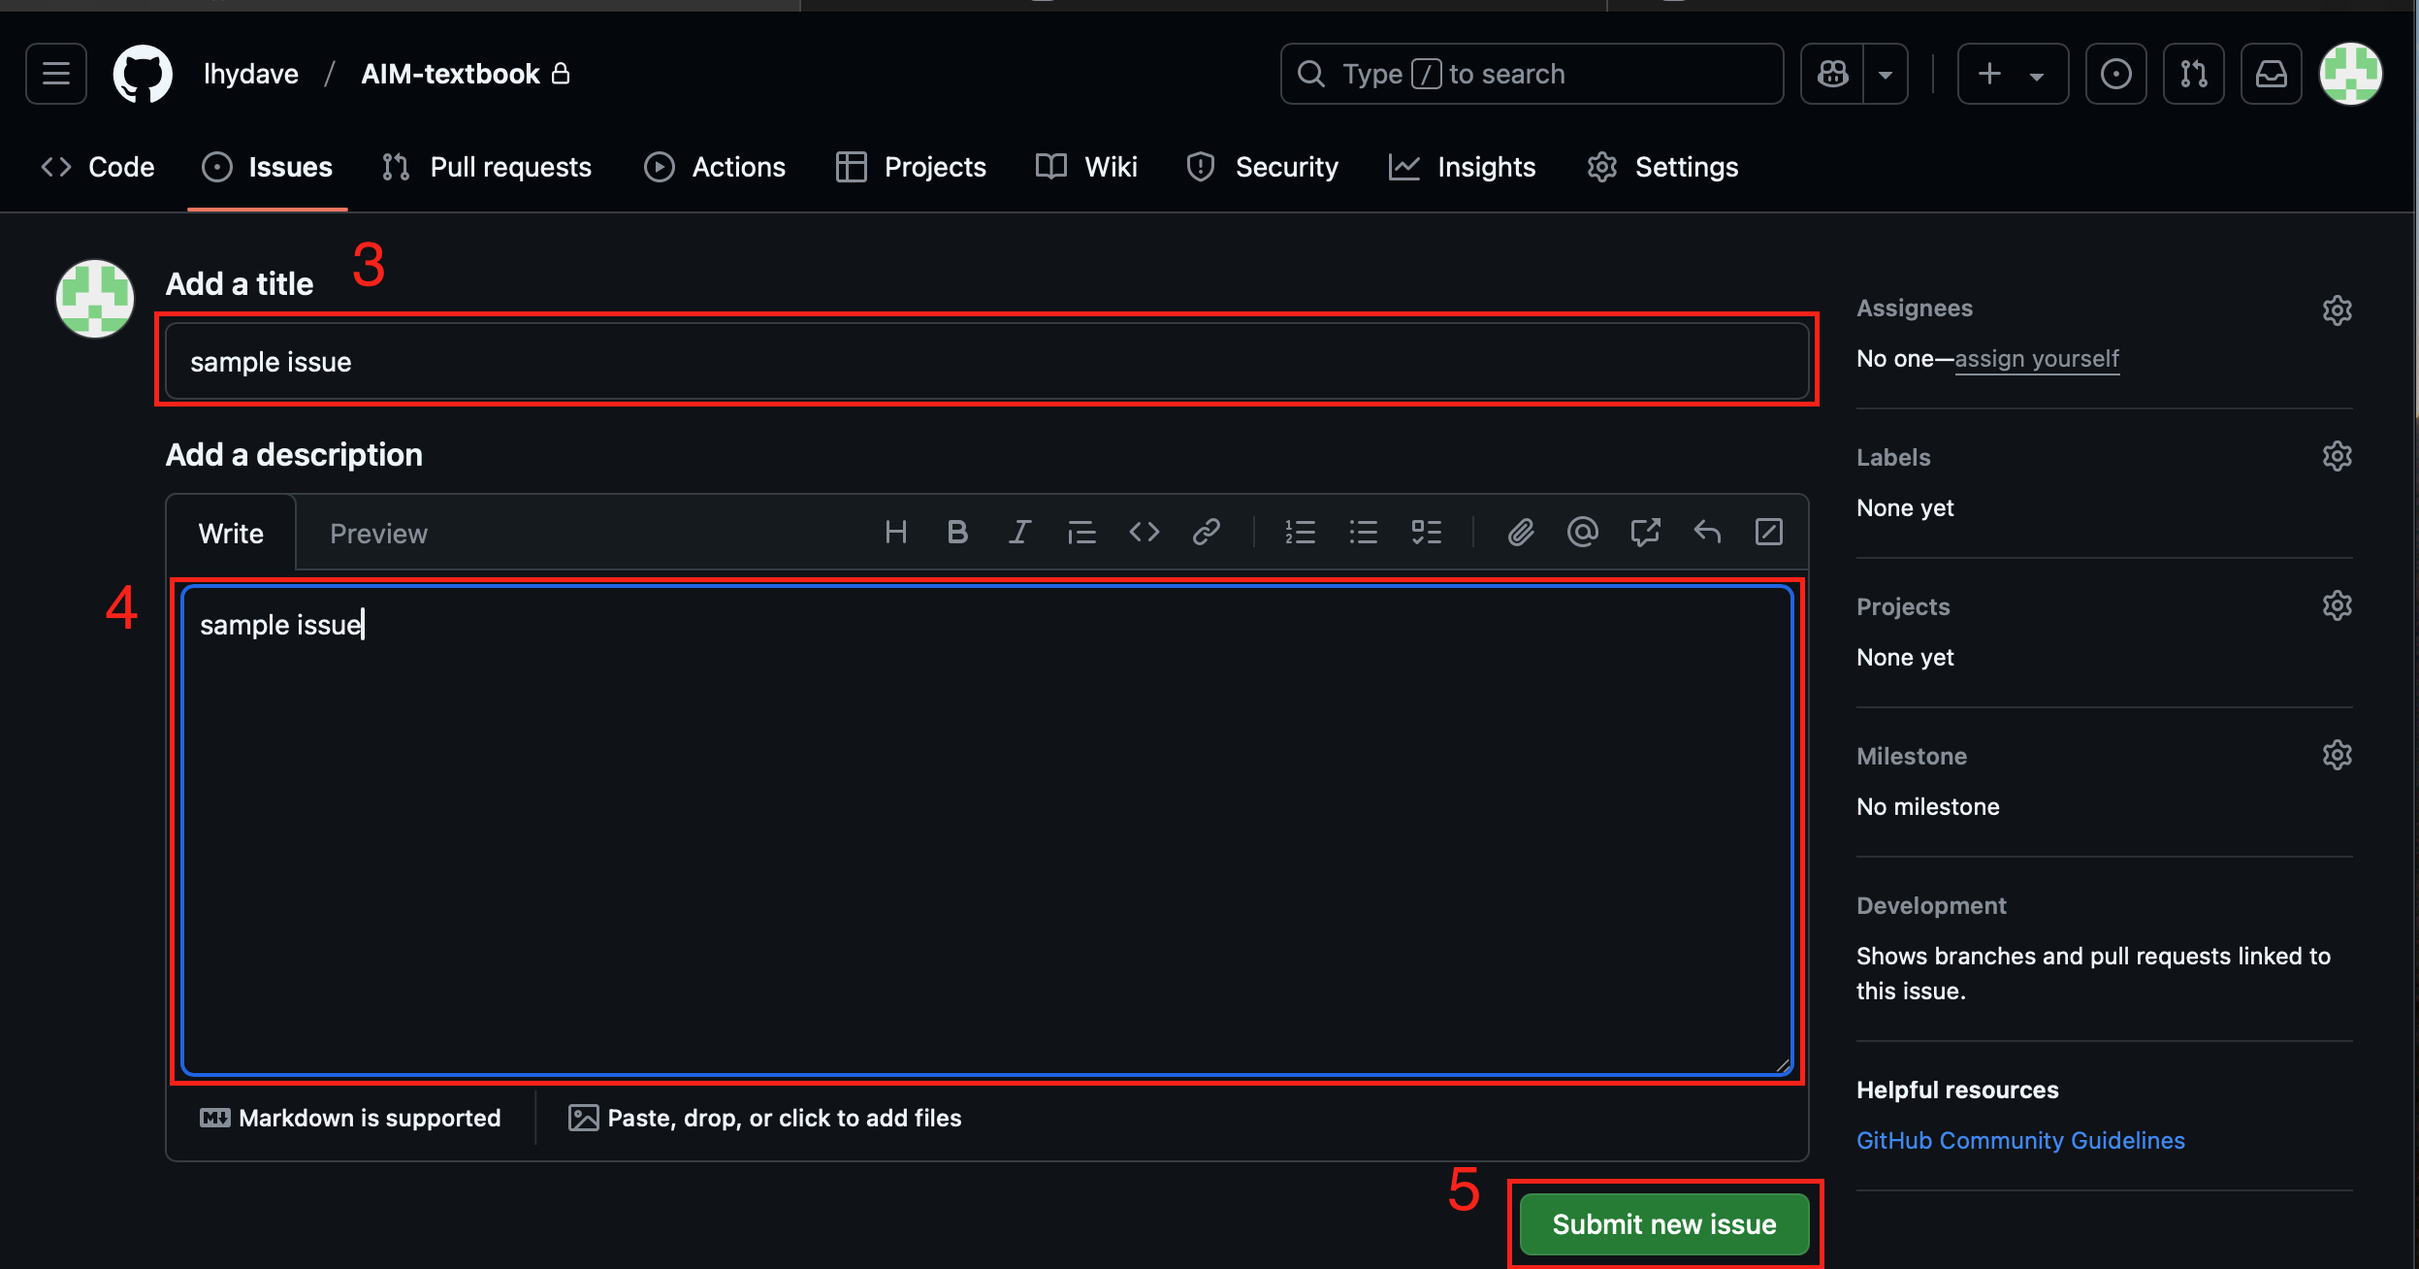
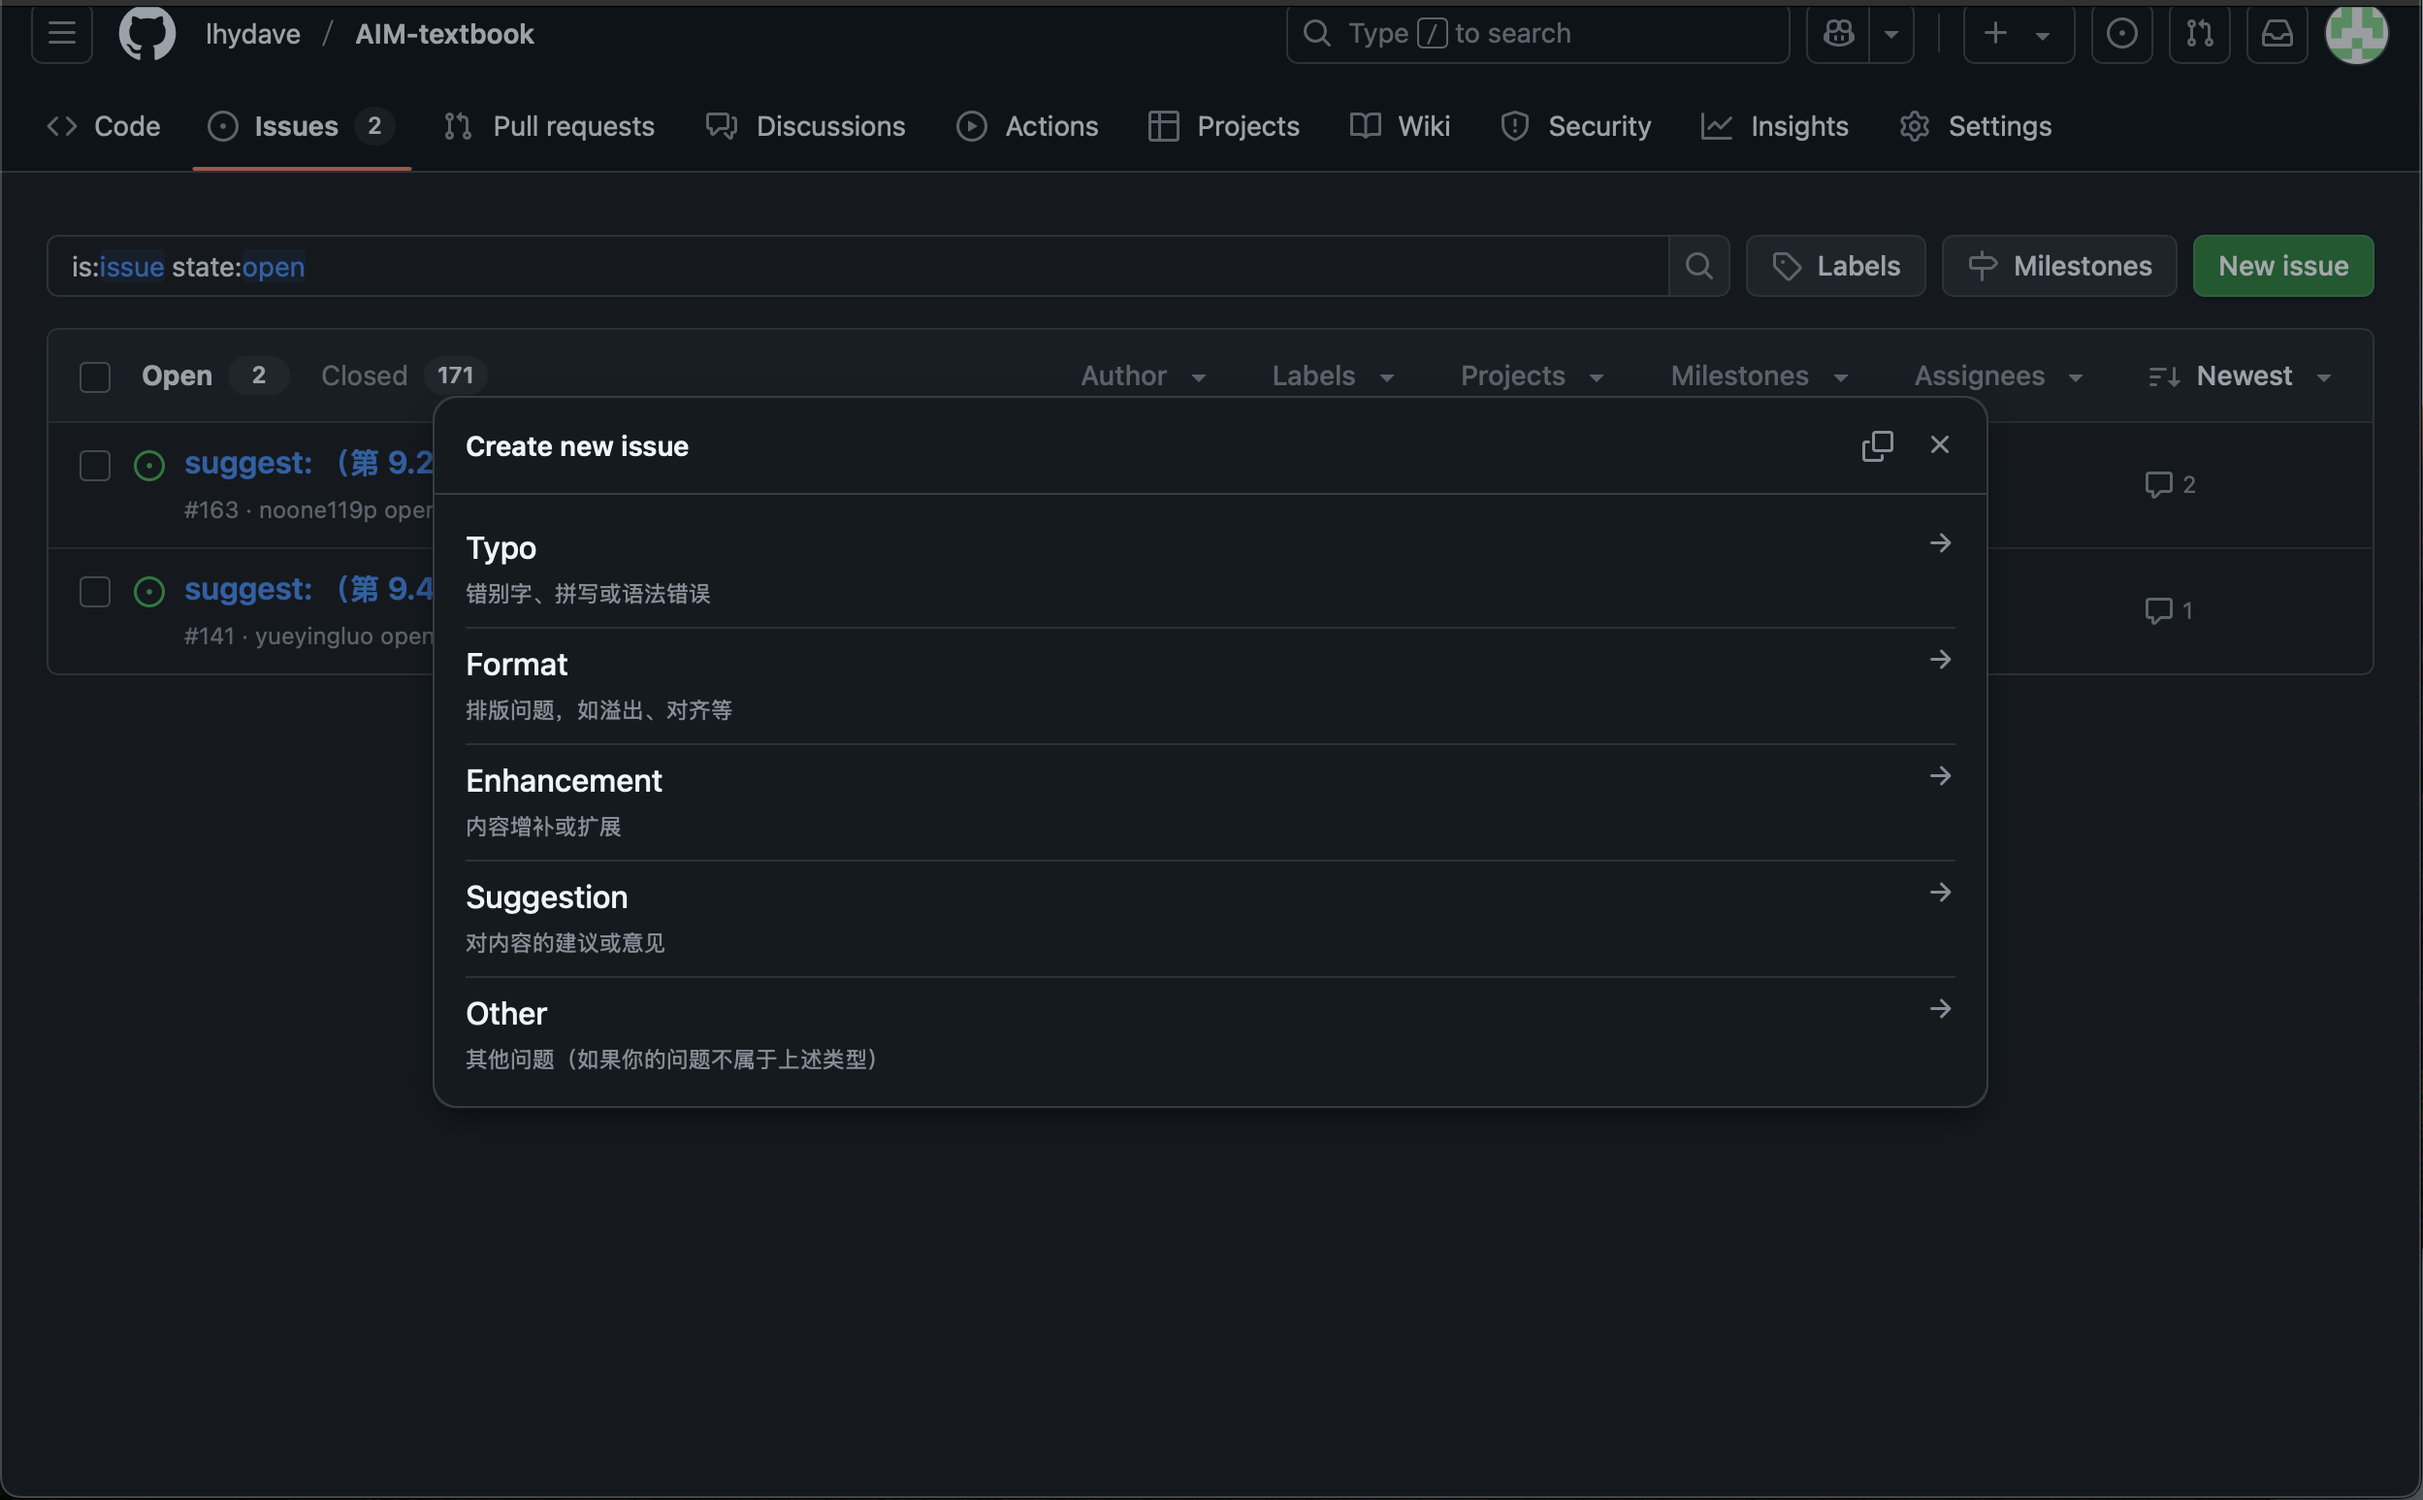
update readme.

diff --git a/README.md b/README.md
@@ -41,18 +41,21 @@ latexmk main.tex --xelatex
 
 ### 通过 Issue 提出勘误和修改提议
 
-*在使用 Issue 提交建议之前，请仔细查阅 [Issue 规范](issue-format.md)，否则你的 Issue 可能会被忽略或关闭。*
+> [!IMPORTANT] 
+> *在使用 Issue 提交建议之前，请仔细查阅 [Issue 规范](issue-format.md)，否则你的 Issue 可能会被忽略或关闭。*
 
 1. 在本网页中，点击 `Issues` 标签。
 2. 点击 `New issue` 按钮。
 
 ![image](readme-img/issue-1.png)
 
-3. 在 `Title` 中输入勘误或修改提议的标题。
-4. 在 `Write` 中输入勘误或修改提议的详细内容，请具体到章节和页码，可以附上图片，数学请使用 LaTeX 公式。
-5. 点击 `Submit new issue` 按钮。
+3. 选择一个合适的 Issue 模板。目前支持 Typo、Format、Enhancement、Suggestion、Other 类型的 Issue 模板。
 
 ![image](readme-img/issue-2.png)
+
+4. 修改 Issue 的标题，填写 Issue 模板中的内容，请尽量详细地描述你发现的问题或提出的建议。
+
+![image](readme-img/issue-3.png)
 
 ## 通过 Pull Request 提交勘误和修改提议
 
